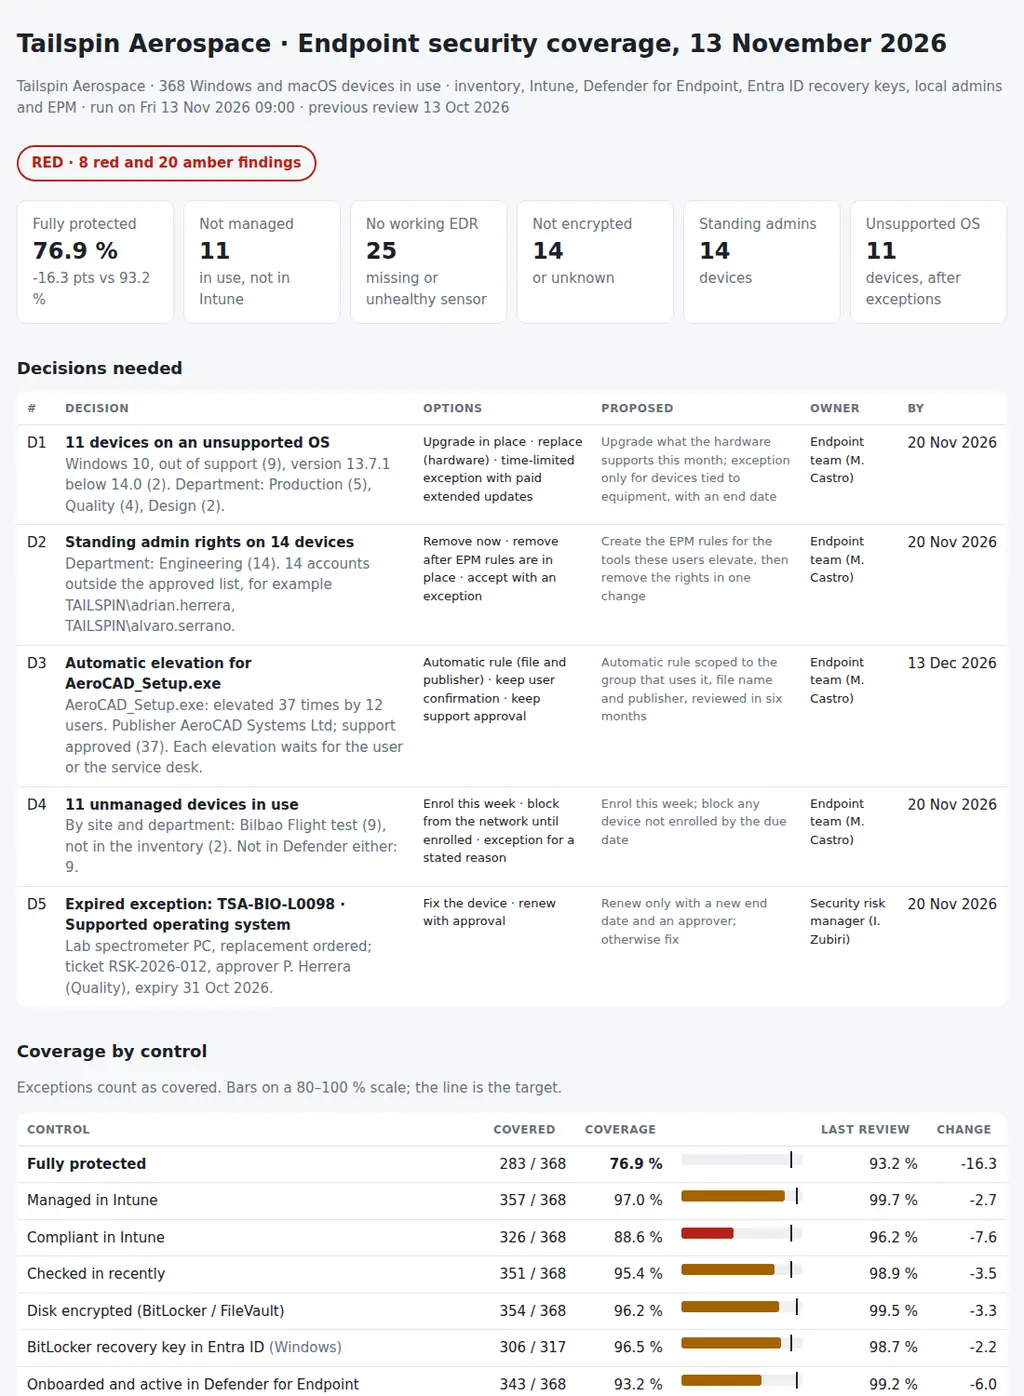
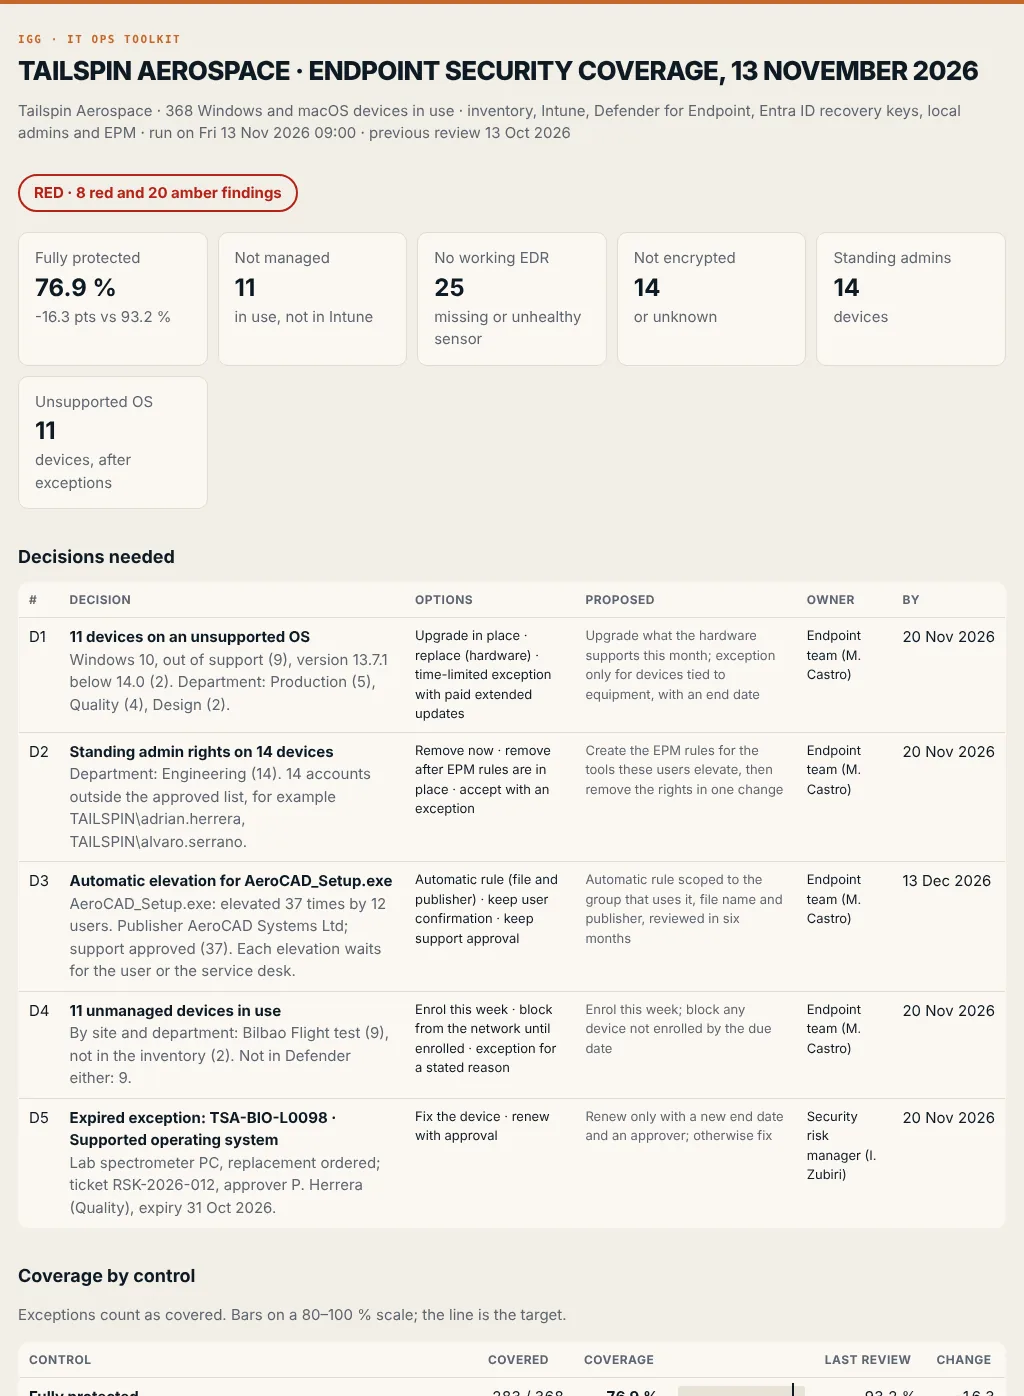
Report: IGG colours (paper, ink and the orange accent) and a new screenshot

diff --git a/endpointcoverage/report.py b/endpointcoverage/report.py
@@ -220,11 +220,11 @@ def pack_md(d: Data, rv: dict, title: str) -> str:
 # ---------------------------------------------------------------- html
 
 CSS = """
-:root{--bg:#f6f7f8;--card:#fff;--ink:#1b2128;--muted:#66717c;--line:#e2e5e9;--ok:#1e7a4c;--warn:#a46200;--bad:#b42318;--info:#0b6bcb;
---g:#cfeedd;--a:#fbe6bd;--r:#f8d2cd;--n:#eef0f2}
-@media (prefers-color-scheme:dark){:root{--bg:#13171b;--card:#1b2127;--ink:#e7eaee;--muted:#9aa5b0;--line:#2b333b;--ok:#4cc38a;--warn:#f0a83a;
---bad:#f2685c;--info:#5aa9f0;--g:#173527;--a:#3d2f12;--r:#45201d;--n:#232a31}}
-*{box-sizing:border-box}body{margin:0;background:var(--bg);color:var(--ink);font:15px/1.5 system-ui,-apple-system,Segoe UI,sans-serif}
+:root{--bg:#f2eee6;--card:#fbf8f3;--ink:#0e1a24;--muted:#5d6670;--line:#e2dccf;--ok:#1e7a4c;--warn:#a46200;--bad:#b42318;--info:#1f5f8b;
+--g:#cfeedd;--a:#fbe6bd;--r:#f8d2cd;--n:#e8e2d6}
+@media (prefers-color-scheme:dark){:root{--bg:#0e1a24;--card:#142331;--ink:#f2eee6;--muted:#a9b3bb;--line:#24364a;--ok:#4cc38a;--warn:#f0a83a;
+--bad:#f2685c;--info:#5aa9f0;--g:#173527;--a:#3d2f12;--r:#45201d;--n:#1b2b3b}}
+*{box-sizing:border-box}body{border-top:4px solid #c4672b}h1{font-weight:800;letter-spacing:-.025em;text-transform:uppercase;line-height:1.05}h1::before{content:"IGG · IT Ops toolkit";display:block;font:600 11px/1.4 ui-monospace,SFMono-Regular,Menlo,monospace;letter-spacing:.14em;text-transform:uppercase;color:#c4672b;margin-bottom:10px}body{margin:0;background:var(--bg);color:var(--ink);font:15px/1.5 system-ui,-apple-system,Segoe UI,sans-serif}
 main{max-width:1100px;margin:0 auto;padding:28px 18px 60px}h1{font-size:26px;margin:0 0 4px}h2{font-size:18px;margin:34px 0 12px}
 .muted{color:var(--muted)}.tiles{display:grid;grid-template-columns:repeat(auto-fit,minmax(160px,1fr));gap:10px;margin-top:20px}
 .tile{background:var(--card);border:1px solid var(--line);border-radius:10px;padding:14px 16px}.tile b{display:block;font-size:24px}
